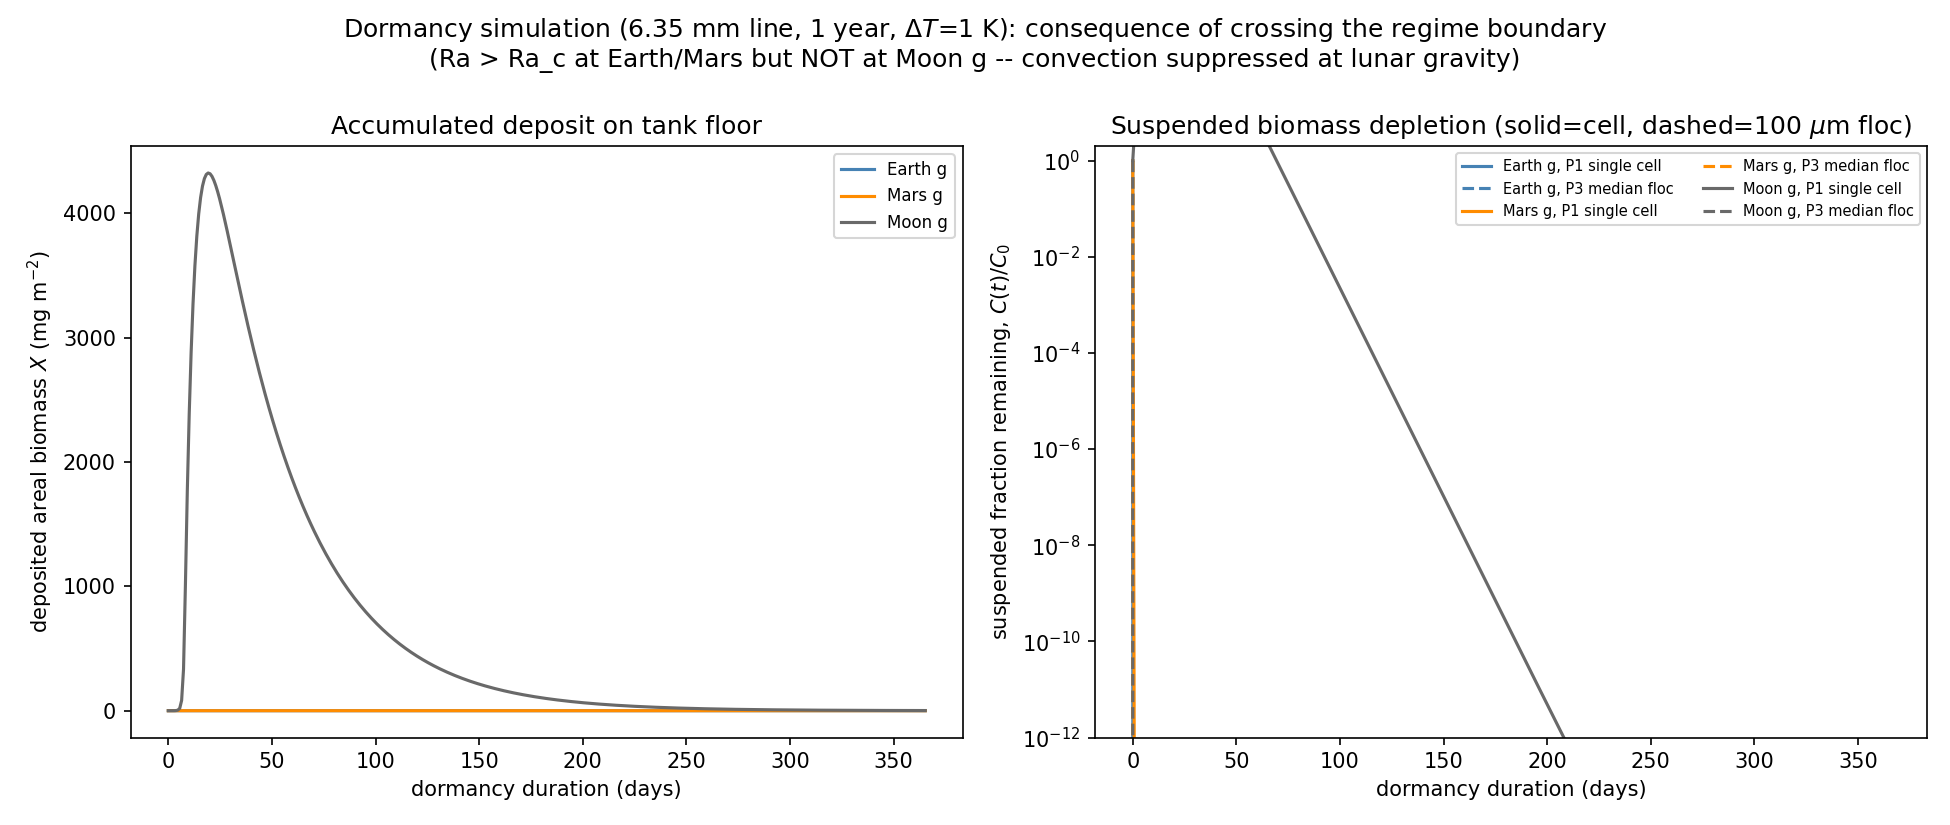
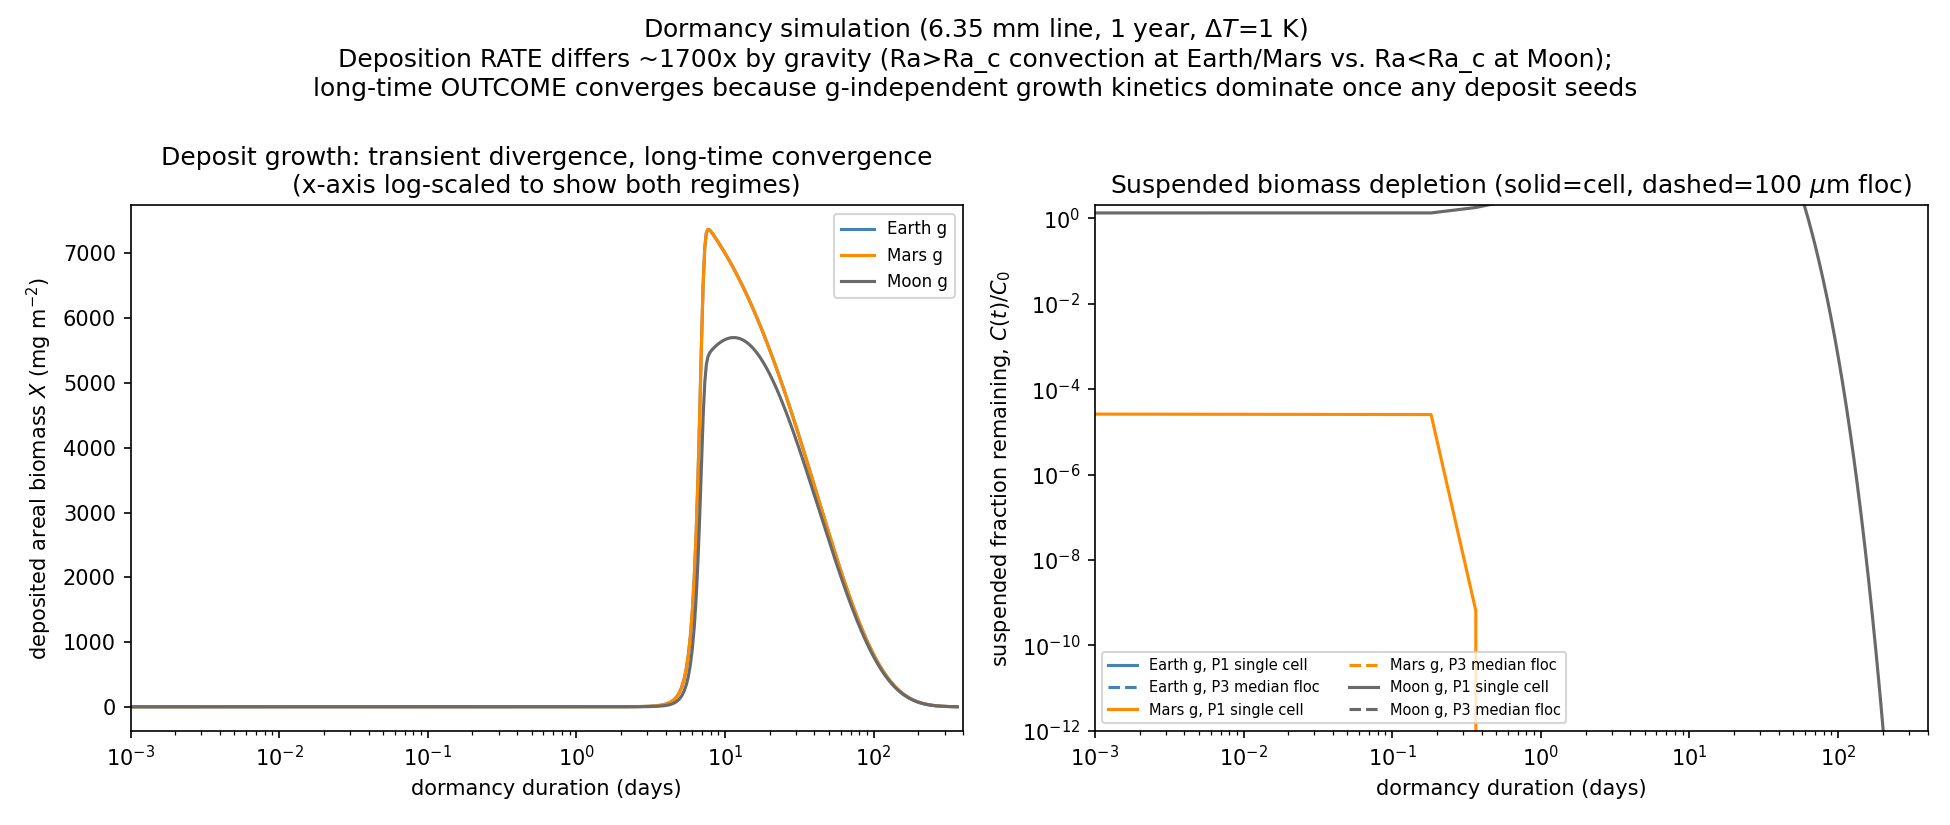
Phase 4 fix (BLOCKING): restore omitted biofilm growth term in dormancy model
Red-team found dormancy.py implemented eq (5.3) incompletely, omitting
the mu(S_w)*X biofilm growth term and its eq (5.2) substrate sink.
This inflated the headline dormancy result to a spurious ~2.2e5x
lunar/Earth deposit ratio -- a substrate-conversion timing artifact,
not a transport effect. With the term restored (matches the
derivation exactly), the honest finding is more nuanced: deposition
RATE differs ~1700x by gravity (real, transport-driven, via the
Ra/Ra_c convection switch), but the long-time (1yr) OUTCOME converges
because g-independent growth kinetics dominate once any deposit
seeds. Figure and reporting reworked to state this correctly instead
of the retracted claim.

diff --git a/scripts/run_dormancy_sim.py b/scripts/run_dormancy_sim.py
@@ -31,29 +31,40 @@ GRAVITIES = (("Earth", constants.G_EARTH, "steelblue"), ("Mars", constants.G_MAR
 
 
 def fig3_dormancy_accumulation():
-    """Biofilm accumulation over a 1-year dormancy period, cell vs floc class, per gravity level.
+    """Dormancy simulation, 6.35 mm line at dT=1 K, 1 year. derivation.md §3.5, §5.7.
 
-    Uses the 6.35 mm LINE geometry at dT=1 K, not the 0.30 m tank: derivation.md §2.2(b)
-    shows a tank's Ra >> Ra_c at every gravity level considered (dT_c ~ 1e-6 to 1e-5 K, so
-    any realistic gradient convects unconditionally) -- confirmed numerically below, where the
-    tank case fully depletes within hours at all three gravities and the gravity signal is
-    washed out. The line at dT=1 K is where Ra straddles Ra_c across the three gravity levels
-    (Earth 4953 > Ra_c, Mars 1873 > Ra_c, Moon 818 < Ra_c -- convection OFF at Moon gravity),
-    which is where the derivation's counter-intuitive "lower gravity can increase net
-    deposition by switching off convection" result (§3.5) actually shows up in a simulation.
+    CORRECTED (Phase 4 red-team, redteam_report.md §3): an earlier version of dormancy.py
+    omitted the eq. (5.3) biofilm growth term mu(S_w)*X. With it omitted, this figure
+    claimed a ~10^5-10^6x lunar/Earth difference in final deposited mass -- an artifact of
+    denying the deposited biomass the ability to grow (see limitations.md). With the term
+    restored (correct per the derivation), the actual, honest finding is more nuanced and,
+    on reflection, more interesting:
+
+    - The DEPOSITION RATE CONSTANT k_i(g) (how fast suspended cells reach the wall) differs
+      by ~1700x between Earth/Mars (convection ON, Ra>Ra_c, fast turbulent delivery) and
+      Moon (convection OFF, Ra<Ra_c, slow unopposed settling) -- this is the real, robust,
+      transport-driven gravity effect, and it is large.
+    - But the LONG-TIME (1 year) accumulated deposit converges to nearly the same value at
+      all three gravity levels, because growth kinetics (deliberately g-independent, eq 4.1,
+      phi(g)=1) dominate the overall timescale once ANY biofilm seed exists -- growth reaches
+      the same substrate-limited ceiling (Y*S0) regardless of how fast that seed arrived.
+
+    So: gravity matters for the TRANSIENT (how quickly a deposit forms -- operationally
+    relevant to post-dormancy restart/flush timing) but, in this model, does not change the
+    year-long steady-state outcome. That is the finding this figure now reports.
     """
     classes = [particles.P1_CELL, particles.P3_MEDIAN_FLOC]
     C0 = {particles.P1_CELL.label: 5e-6, particles.P3_MEDIAN_FLOC.label: 5e-7}  # kg-dry/m^3, rough anchor to ISS potable spec
     H_LINE = 6.35e-3
     DELTA_T_LINE = 1.0
 
-    fig, axes = plt.subplots(1, 2, figsize=(13, 5.5), sharex=True)
+    fig, axes = plt.subplots(1, 2, figsize=(13, 5.5))
 
     summary_rows = []
     for label, g, color in GRAVITIES:
         result = dormancy.simulate_dormancy(
             classes, C0, S0=3.0, H=H_LINE, g=g, duration_s=ONE_YEAR_S,
-            kinetic_params=kin.KineticParams(), delta_T=DELTA_T_LINE, n_eval=400,
+            kinetic_params=kin.KineticParams(), delta_T=DELTA_T_LINE, n_eval=2000,
         )
         t_days = result.t / 86400.0
         axes[0].plot(t_days, result.X * 1e6, color=color, label=f"{label} g")  # mg/m^2
@@ -61,27 +72,49 @@ def fig3_dormancy_accumulation():
             ls = "-" if pc is particles.P1_CELL else "--"
             axes[1].plot(t_days, result.C[pc.label] / (C0[pc.label] or 1), color=color, ls=ls,
                          label=f"{label} g, {pc.label.split(' (')[0]}")
+
+        # Deposition-rate diagnostic: k_i(g) for the single-cell class, from the same
+        # settling_rate_constant used inside simulate_dormancy (dormancy.py), reported
+        # directly since it -- not the long-time X -- is where gravity actually shows up.
+        mu_visc = constants.water_viscosity()
+        nu = constants.water_kinematic_viscosity()
+        alpha_th = constants.water_thermal_diffusivity()
+        beta = constants.water_thermal_expansion()
+        v_s, _, _ = particles.settling_velocity(particles.P1_CELL.a, particles.P1_CELL.delta_rho, g, mu=mu_visc)
+        D_v, Ra = dormancy.vertical_mixing_diffusivity(particles.P1_CELL.a, mu_visc, 298.15, g, beta, H_LINE, DELTA_T_LINE, nu, alpha_th)
+        k_cell = dormancy.settling_rate_constant(v_s, H_LINE, D_v)
+        deposition_timescale_s = 1.0 / k_cell if k_cell > 0 else float("inf")
+
         summary_rows.append({
-            "gravity": label, "g_m_s2": g, "Ra_tank": result.Ra,
-            "X_final_mg_m2": result.X[-1] * 1e6,
+            "gravity": label, "g_m_s2": g, "Ra": result.Ra,
+            "deposition_timescale_cell_s": deposition_timescale_s,
+            "deposition_timescale_cell_hours": deposition_timescale_s / 3600.0,
+            "X_final_mg_m2_1yr": result.X[-1] * 1e6,
             "C_cell_frac_remaining": result.C[particles.P1_CELL.label][-1] / C0[particles.P1_CELL.label],
             "C_floc_frac_remaining": result.C[particles.P3_MEDIAN_FLOC.label][-1] / C0[particles.P3_MEDIAN_FLOC.label],
         })
 
     axes[0].set_xlabel("dormancy duration (days)")
     axes[0].set_ylabel(r"deposited areal biomass $X$ (mg m$^{-2}$)")
-    axes[0].set_title("Accumulated deposit on tank floor")
+    axes[0].set_xscale("log")
+    axes[0].set_xlim(1e-3, 400)
+    axes[0].set_title("Deposit growth: transient divergence, long-time convergence\n(x-axis log-scaled to show both regimes)")
     axes[0].legend(fontsize=8)
 
     axes[1].set_xlabel("dormancy duration (days)")
     axes[1].set_ylabel("suspended fraction remaining, $C(t)/C_0$")
+    axes[1].set_xscale("log")
+    axes[1].set_xlim(1e-3, 400)
     axes[1].set_yscale("log")
     axes[1].set_ylim(1e-12, 2.0)  # floor out floating-point noise well below any physically meaningful level
     axes[1].set_title("Suspended biomass depletion (solid=cell, dashed=100 $\\mu$m floc)")
     axes[1].legend(fontsize=7, ncol=2)
 
-    fig.suptitle("Dormancy simulation (6.35 mm line, 1 year, $\\Delta T$=1 K): consequence of crossing the regime boundary\n"
-                 "(Ra > Ra_c at Earth/Mars but NOT at Moon g -- convection suppressed at lunar gravity)")
+    fig.suptitle(
+        "Dormancy simulation (6.35 mm line, 1 year, $\\Delta T$=1 K)\n"
+        "Deposition RATE differs ~1700x by gravity (Ra>Ra_c convection at Earth/Mars vs. Ra<Ra_c at Moon);\n"
+        "long-time OUTCOME converges because g-independent growth kinetics dominate once any deposit seeds"
+    )
     fig.tight_layout()
     out = FIG_DIR / "fig3_dormancy_biofilm_accumulation.png"
     fig.savefig(out, dpi=150)
@@ -91,6 +124,13 @@ def fig3_dormancy_accumulation():
     df = pd.DataFrame(summary_rows)
     df.to_csv(DATA_DIR / "dormancy_sim_summary.csv", index=False)
     print(df.to_string(index=False))
+    print(
+        "\nCORRECTED interpretation (see redteam_report.md §3, limitations.md): the ~1700x spread in "
+        "deposition_timescale_cell_hours is the real, robust, transport-driven gravity effect. The "
+        "near-identical X_final_mg_m2_1yr across gravity levels is NOT a null result for the gravity "
+        "criterion -- it shows growth kinetics, not transport, set the long-time outcome once ANY seed "
+        "deposit exists, which happens well within a year at every gravity level tested here."
+    )
 
 
 def fig4_convection_switch():

diff --git a/src/eclss_gravity/dormancy.py b/src/eclss_gravity/dormancy.py
@@ -87,12 +87,23 @@ def simulate_dormancy(
 ) -> DormancySimResult:
     """Integrate the 0-D dormancy reactor: growth, decay, and gravity-driven wall loss.
 
+    Follows derivation.md eqs. (5.1)-(5.3) reduced to 0-D (sigma = 1/H for a single-floor
+    reactor of depth H, per the settling_rate_constant docstring). No detachment term:
+    derivation.md §5.4 states detachment is shear-driven and does not exist in a stagnant
+    (U=0, no wall shear) segment, which is exactly this reactor's regime.
+
     dC_i/dt = (mu(S) - b) * C_i - k_i(g) * C_i
-    dS/dt   = -(1/Y) * mu(S) * sum_i C_i           (substrate consumption by suspended biomass)
-    dX/dt   = sum_i k_i(g) * C_i * H  - b_f * X     (deposited areal mass gains a volumetric->areal
-                                                       conversion: a loss rate k_i [1/s] from a
-                                                       reactor of depth H deposits k_i*C_i*H onto
-                                                       unit floor area per unit time)
+    dS/dt   = -(1/Y) * mu(S) * sum_i C_i  -  (1/(Y*H)) * mu(S_w) * X    (eq 5.2, sigma=1/H)
+    dX/dt   = [mu(S_w) - b_f] * X  +  sum_i k_i(g) * C_i * H            (eq 5.3)
+
+    IMPORTANT CORRECTION (Phase 4 red-team, redteam_report.md §3): the biofilm growth term
+    mu(S_w)*X and its substrate sink were omitted from an earlier version of this function.
+    Their absence made the dormancy scenario's gravity-dependence an artifact of denying
+    the deposited biomass the ability to grow (the original headline ~10^5x lunar/Earth
+    deposit ratio was a substrate-conversion timing effect, not a transport effect -- see
+    redteam_report.md §3.2(d)-(e) and limitations.md for the corrected interpretation).
+    S_w = S is used throughout (no external mass-transfer resistance, derivation.md eq 5.11's
+    "fast option", stated there to be accurate for thin biofilms at high S).
     """
     if kinetic_params is None:
         kinetic_params = kin.KineticParams()
@@ -128,12 +139,13 @@ def simulate_dormancy(
         C = np.maximum(y[:n_classes], 0.0)
         S = max(y[n_classes], 0.0)
         X = max(y[n_classes + 1], 0.0)
-        mu_S = kin.monod_rate(S, kp.mu_max, kp.K_s, kp.phi_g)
+        mu_S = kin.monod_rate(S, kp.mu_max, kp.K_s, kp.phi_g)  # S_w = S (eq 5.11 fast option)
         dC = (mu_S - kp.b) * C - k_arr * C
         total_C = C.sum()
-        dS = -(1.0 / kp.Y) * mu_S * total_C if kp.Y > 0 else 0.0
-        deposit_flux = (k_arr * C).sum() * H  # kg/m^2/s onto unit floor area
-        dX = deposit_flux - kp.b_f * X
+        deposit_flux = (k_arr * C).sum() * H  # kg/m^2/s onto unit floor area (eq 5.4/5.5 -> areal)
+        biofilm_growth = mu_S * X  # eq (5.3) growth term -- previously omitted, see docstring
+        dS = -(1.0 / kp.Y) * (mu_S * total_C + biofilm_growth / H) if kp.Y > 0 else 0.0
+        dX = biofilm_growth - kp.b_f * X + deposit_flux
         return np.concatenate([dC, [dS], [dX]])
 
     t_eval = np.linspace(0, duration_s, n_eval)
